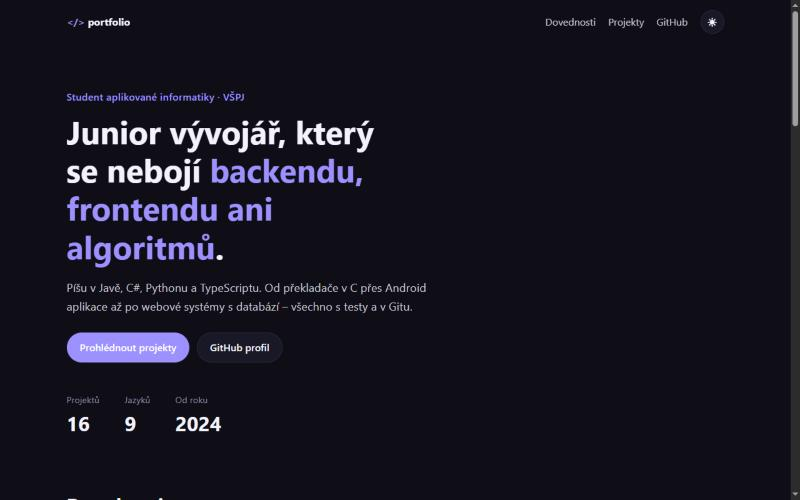
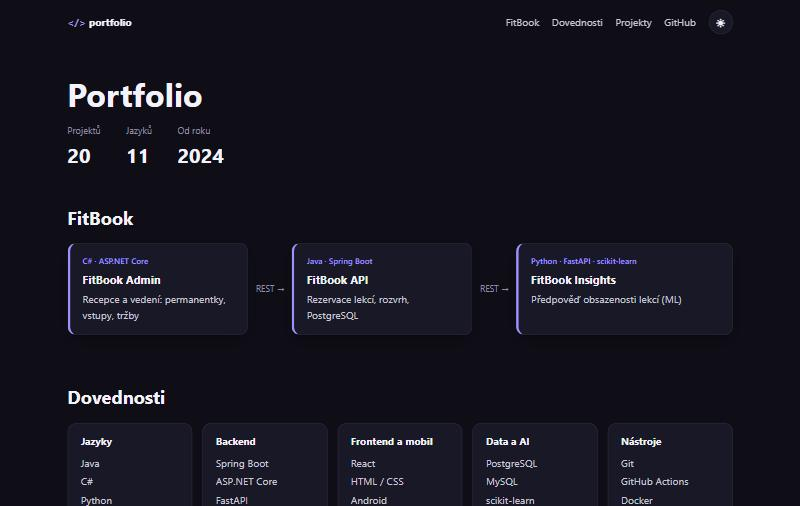
Jednodušší úvod bez textu o autorovi

diff --git a/src/index.css b/src/index.css
@@ -124,36 +124,12 @@ main,
 
 /* --- úvod -------------------------------------------------------------- */
 .hero {
-  padding: 72px 0 48px;
-}
-
-.eyebrow {
-  color: var(--accent);
-  font-weight: 600;
-  letter-spacing: 0.02em;
-  margin: 0 0 12px;
+  padding: 48px 0 16px;
 }
 
 .hero h1 {
   font-size: clamp(2rem, 5vw, 3.2rem);
-  max-width: 18ch;
-  margin: 0 0 20px;
-}
-
-.accent {
-  color: var(--accent);
-}
-
-.lead {
-  font-size: 1.15rem;
-  max-width: 60ch;
-  margin: 0 0 28px;
-}
-
-.hero-actions {
-  display: flex;
-  flex-wrap: wrap;
-  gap: 12px;
+  margin: 0;
 }
 
 .button {
@@ -173,16 +149,10 @@ main,
   border-color: var(--accent);
 }
 
-.button.primary {
-  background: var(--accent);
-  border-color: var(--accent);
-  color: #fff;
-}
-
 .stats {
   display: flex;
   gap: 40px;
-  margin: 48px 0 0;
+  margin: 16px 0 0;
 }
 
 .stats dt {
@@ -236,11 +206,6 @@ main,
 }
 
 /* --- FitBook ----------------------------------------------------------- */
-.section-lead {
-  max-width: 70ch;
-  margin: -12px 0 24px;
-}
-
 .ecosystem {
   display: flex;
   flex-wrap: wrap;

diff --git a/src/components/Hero.tsx b/src/components/Hero.tsx
@@ -1,5 +1,3 @@
-import { GITHUB_URL } from '../config'
-
 interface Props {
   projectCount: number
   languageCount: number
@@ -8,22 +6,7 @@ interface Props {
 export function Hero({ projectCount, languageCount }: Props) {
   return (
     <section className="hero" id="top">
-      <p className="eyebrow">Student aplikované informatiky · VŠPJ</p>
-      <h1>
-        Junior vývojář, který se nebojí <span className="accent">backendu, frontendu ani algoritmů</span>.
-      </h1>
-      <p className="lead">
-        Píšu v Javě, C#, Pythonu a TypeScriptu. Od překladače v C přes Android aplikace až po webové systémy
-        s databází – všechno s testy a v Gitu.
-      </p>
-      <div className="hero-actions">
-        <a className="button primary" href="#projekty">
-          Prohlédnout projekty
-        </a>
-        <a className="button" href={GITHUB_URL}>
-          GitHub profil
-        </a>
-      </div>
+      <h1>Portfolio</h1>
       <dl className="stats">
         <div>
           <dt>Projektů</dt>

diff --git a/src/components/Ecosystem.tsx b/src/components/Ecosystem.tsx
@@ -24,11 +24,7 @@ const SERVICES = [
 export function Ecosystem() {
   return (
     <section className="section" id="fitbook" aria-labelledby="fitbook-nadpis">
-      <h2 id="fitbook-nadpis">Hlavní projekt: FitBook</h2>
-      <p className="section-lead">
-        Systém pro fitness centrum ze tří služeb ve třech jazycích, které spolu komunikují přes REST. Navazuje na můj
-        školní návrh databáze – každá služba má testy, Docker a CI.
-      </p>
+      <h2 id="fitbook-nadpis">FitBook</h2>
       <ol className="ecosystem">
         {SERVICES.map((s, i) => (
           <li key={s.repo}>

diff --git a/index.html b/index.html
@@ -4,7 +4,7 @@
     <meta charset="UTF-8" />
     <link rel="icon" type="image/svg+xml" href="/favicon.svg" />
     <meta name="viewport" content="width=device-width, initial-scale=1.0" />
-    <meta name="description" content="Portfolio studenta aplikované informatiky – projekty v Javě, C#, Pythonu, TypeScriptu a C." />
+    <meta name="description" content="Projekty v Javě, C#, Pythonu, TypeScriptu a C." />
     <title>Portfolio · neubauerlukas207-cell</title>
     <script>
       // nastaví téma ještě před vykreslením, aby stránka při načtení neproblikla
